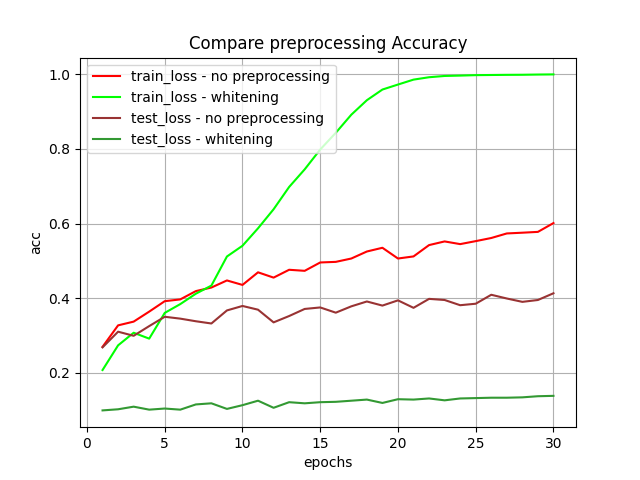
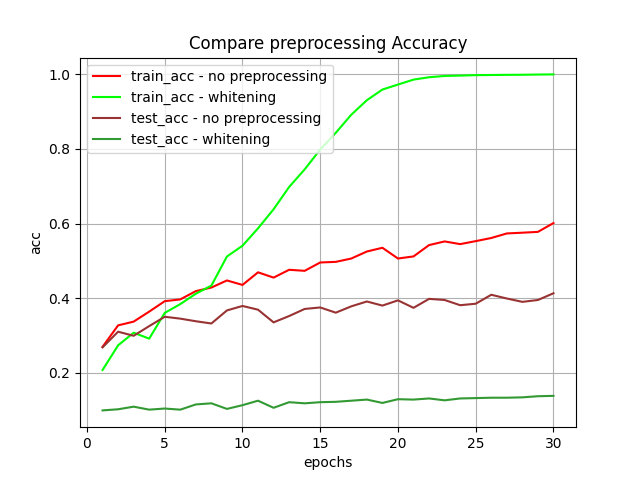
fix graph - acc instead of loss in legend

Changed region(s): [[0.25, 0.125, 0.5312, 0.3125]]

diff --git a/EX1/Q2/statistics/visualize_preprocessing_statistics.py b/EX1/Q2/statistics/visualize_preprocessing_statistics.py
@@ -31,8 +31,8 @@ def visualize_acc(train_acc_1, test_acc_1, train_acc_2, test_acc_2):
     ax.set(xlabel='epochs', ylabel='acc',
            title="Compare preprocessing Accuracy")
     ax.grid()
-    legend = ["train_loss - no preprocessing", "train_loss - whitening",\
-              "test_loss - no preprocessing", "test_loss - whitening"]
+    legend = ["train_acc - no preprocessing", "train_acc - whitening",\
+              "test_acc - no preprocessing", "test_acc - whitening"]
     plt.legend(legend)
 
     fig.savefig("statistics/results/preprocessing/acc.png")
